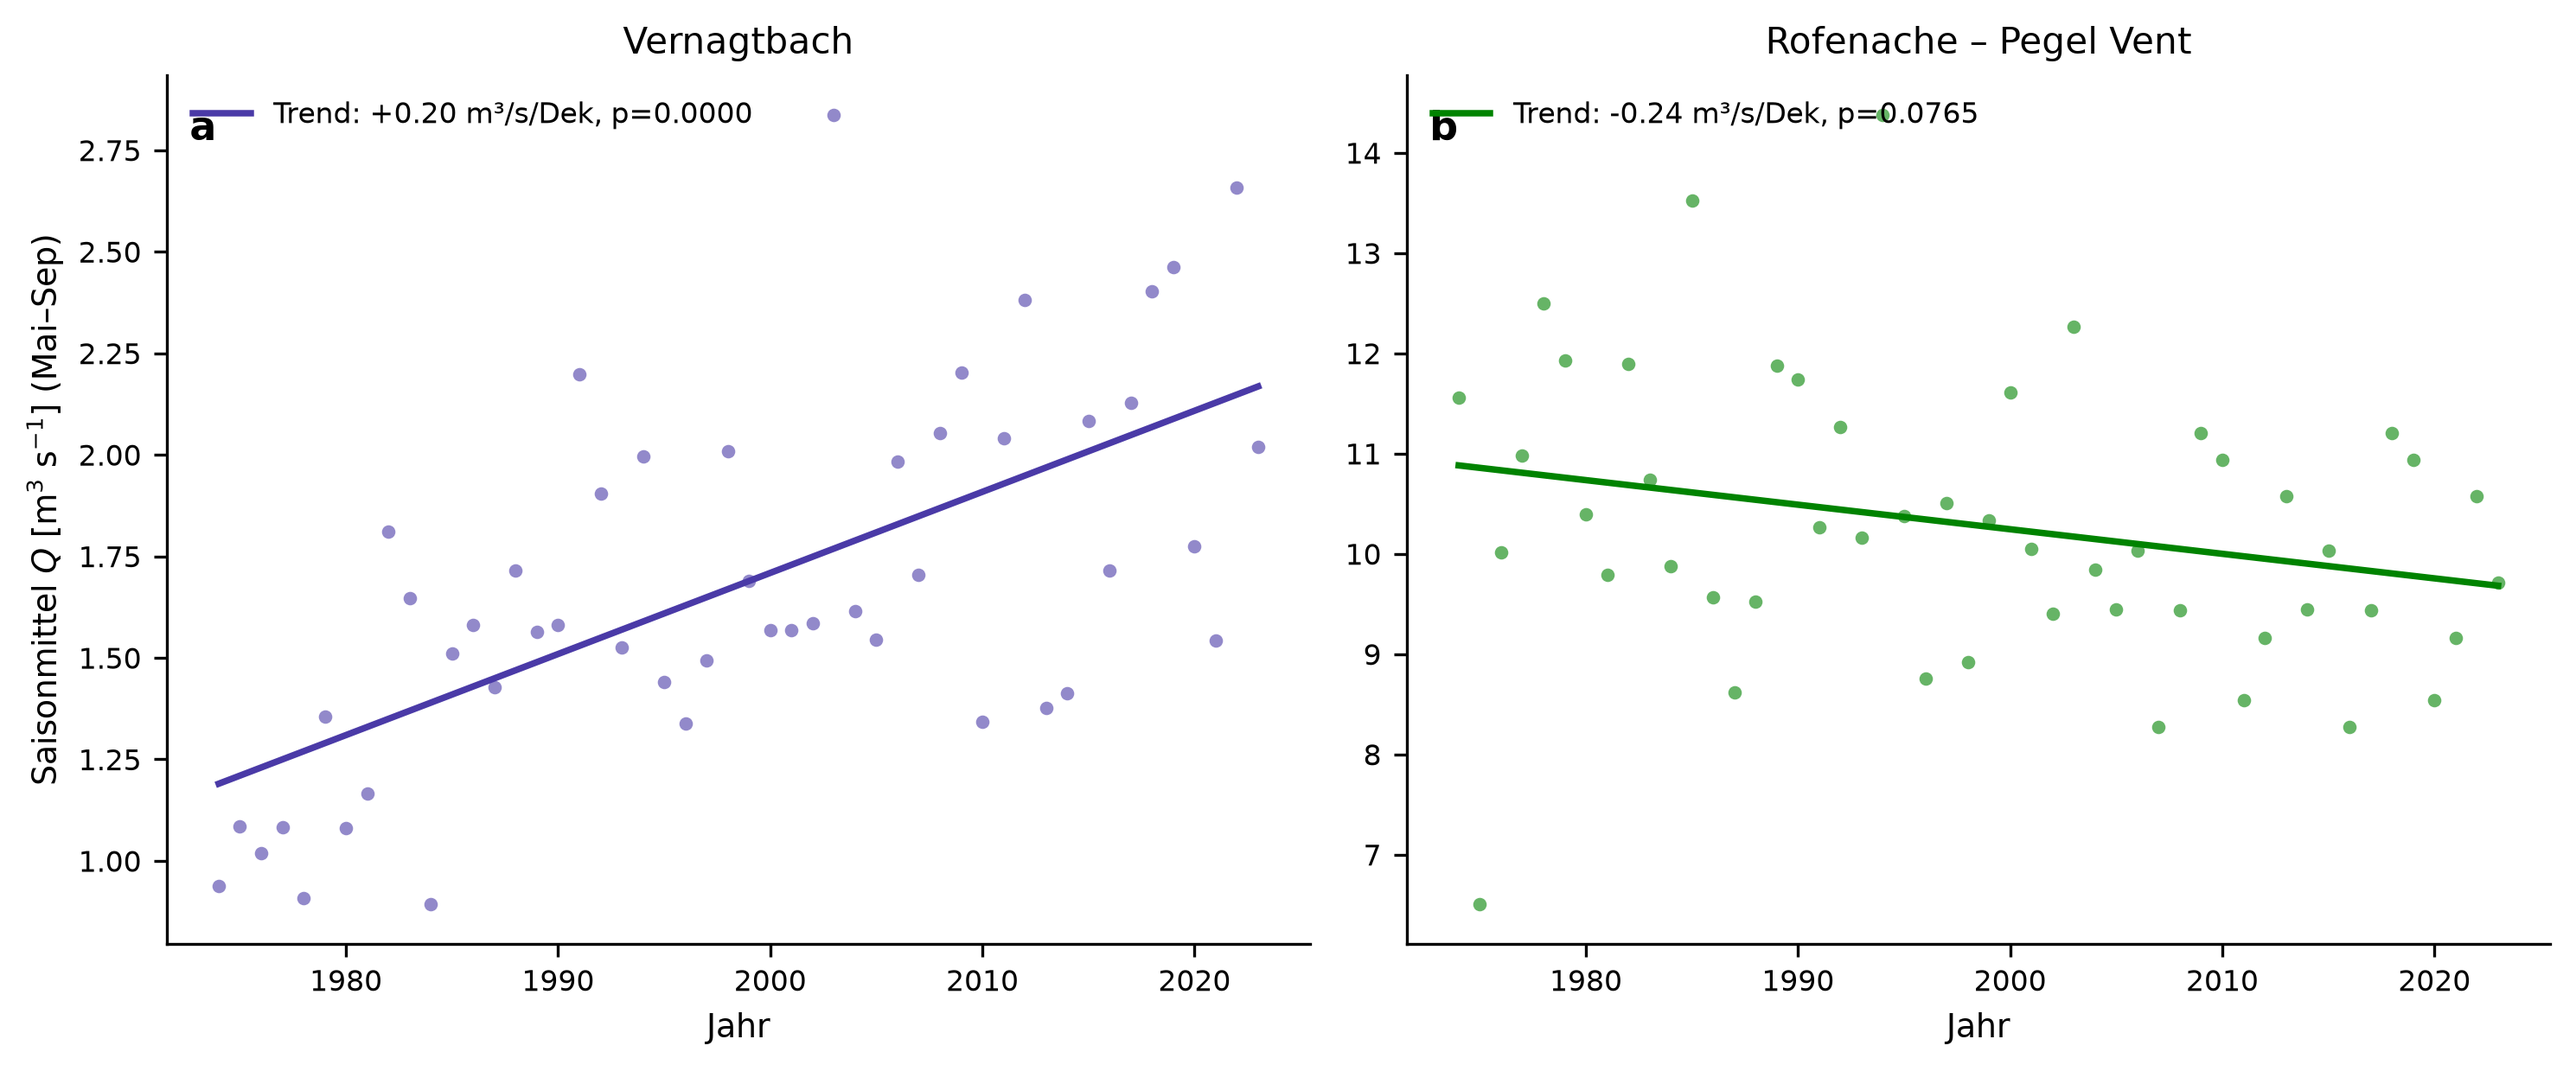
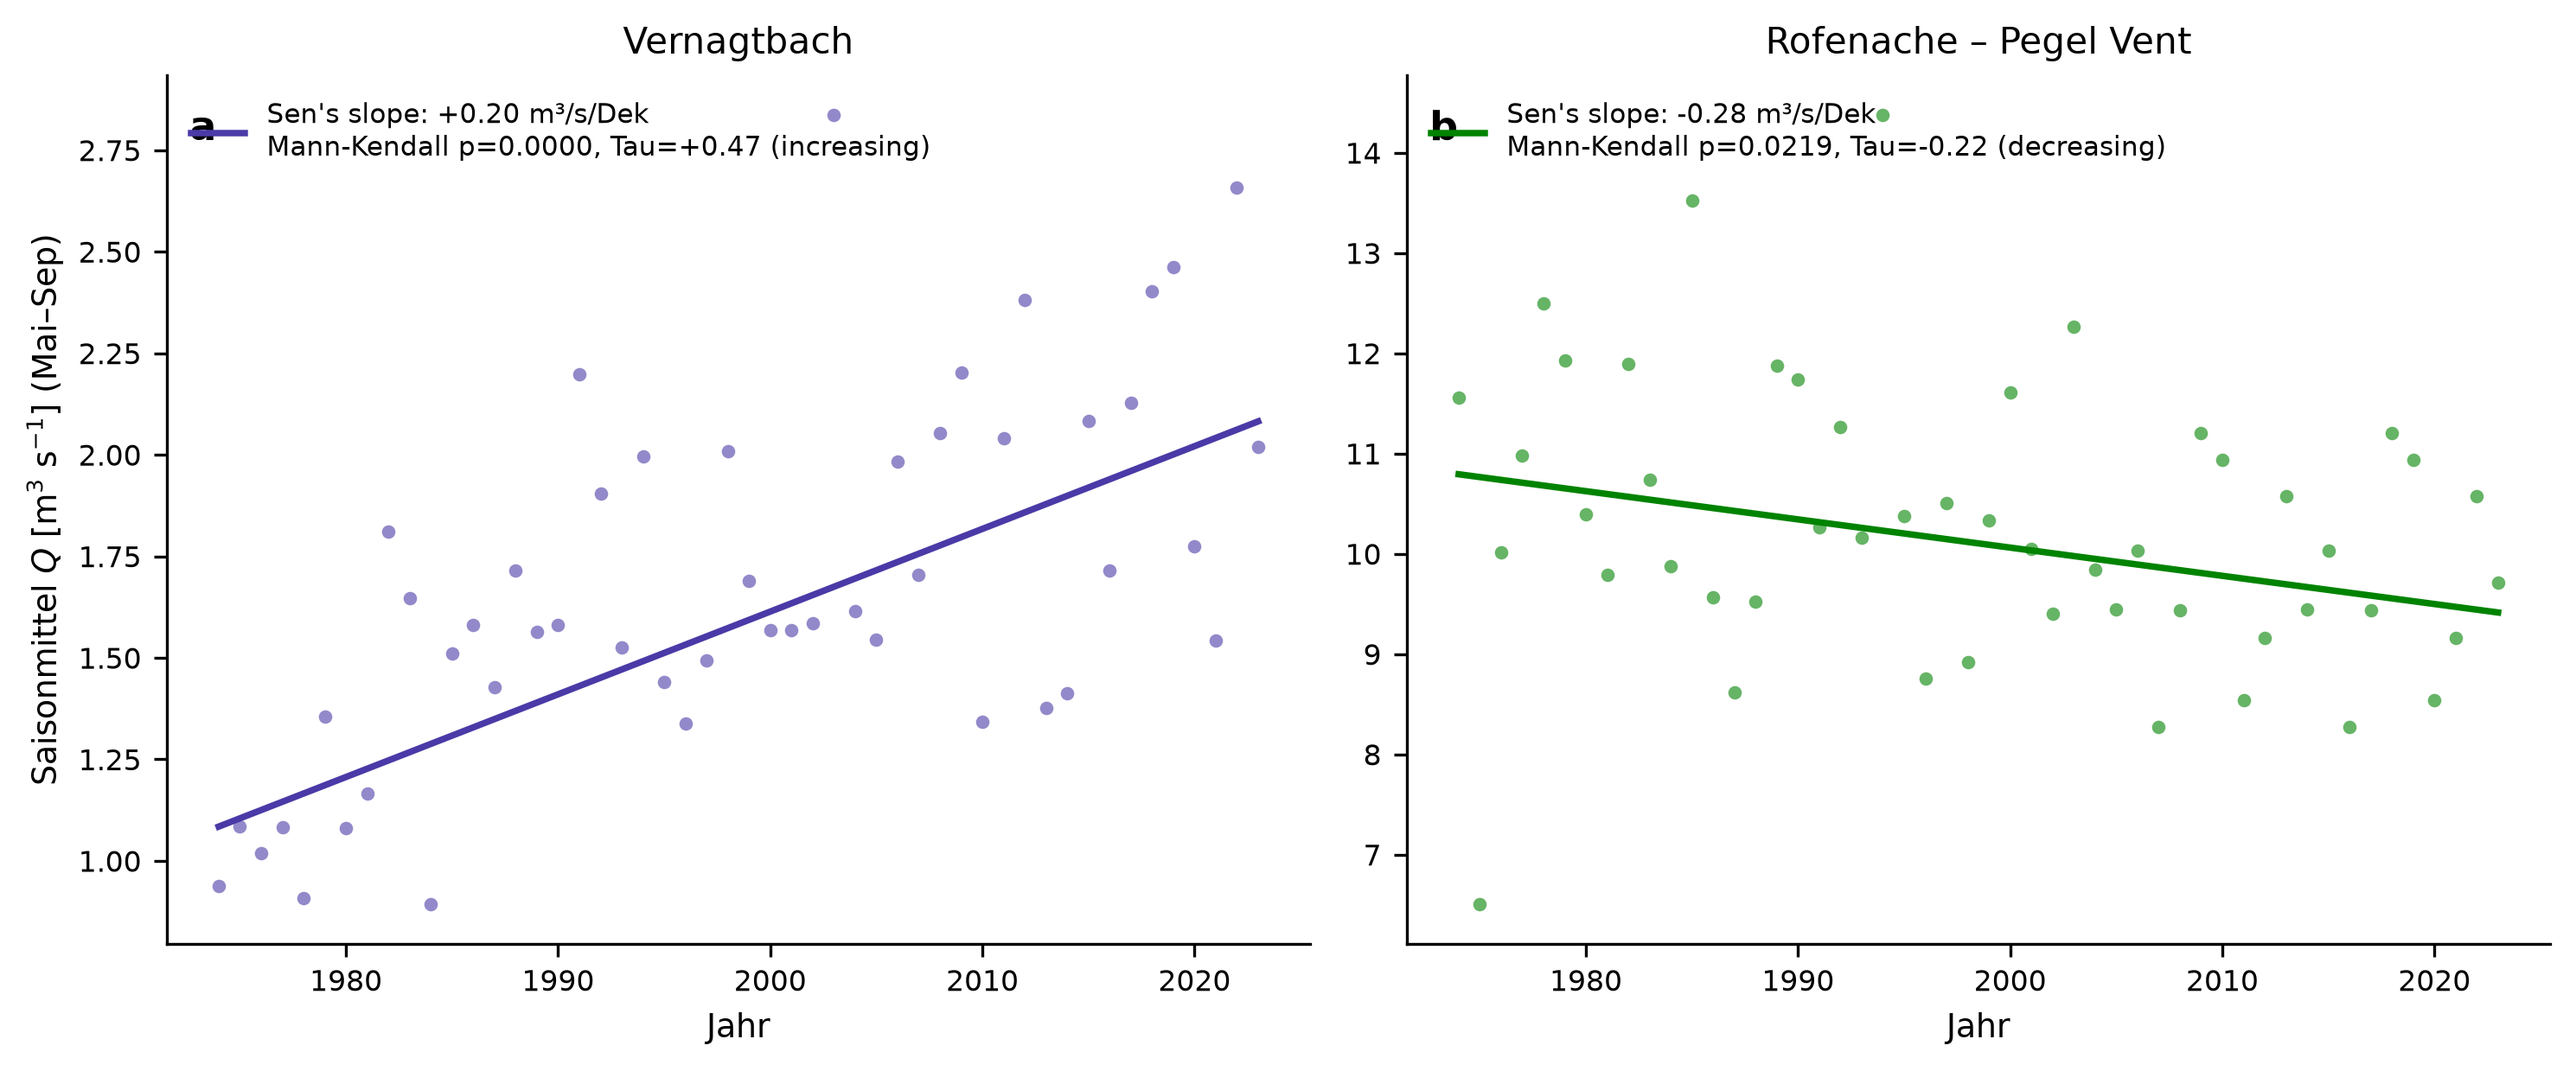
Switch fig14 to Mann-Kendall/Sen's slope (standard hydrological trend test)
OLS linear regression isn't the conventional choice for hydrological
trend detection - Mann-Kendall + Sen's slope is the WMO-recommended,
widely used standard (rank-based, robust to outliers and non-normal
residuals). With it, Rofenache's declining summer discharge comes out
clearly significant (p=0.0219) instead of the borderline p=0.077 OLS
gave - the outlier years (e.g. 1975, 1985) were pulling the OLS p-value
down. Vernagtbach's increase remains highly significant either way
(p<0.0001).

Adds pymannkendall to a new scripts/requirements.txt.

diff --git a/scripts/04_make_figures.py b/scripts/04_make_figures.py
@@ -10,6 +10,7 @@ import numpy as np
 import matplotlib.pyplot as plt
 import matplotlib.colors as mcolors
 from scipy import stats
+import pymannkendall as mk
 
 MASTER_XLSX = "./data/processed/ssim_q_weather_time_vs10.xlsx"  # <-- adjust
 MASTER_SHEET = "clean_complete_cases"
@@ -495,7 +496,14 @@ def fig_parde_coefficients(df):
 # --------------------------------------------------------------- Figure 14 --
 def fig_seasonal_magnitude_trend(df):
     """Has summer discharge magnitude (not just timing) changed? Seasonal
-    mean Q per year (May-Sep), scatter + linear trend, per catchment."""
+    mean Q per year (May-Sep), scatter + Mann-Kendall/Sen's-slope trend per
+    catchment. Mann-Kendall + Sen's slope (not OLS linear regression) is the
+    standard trend test in hydrology/climatology (WMO-recommended): a
+    rank-based, non-parametric test that doesn't assume normally distributed,
+    linear residuals and is far less sensitive to single outlier years than
+    OLS - the more defensible "is this monotonically increasing/decreasing"
+    statistic, the direct magnitude-trend analogue of the Pardé coefficient
+    used above for the seasonal-shape question."""
     d = df.copy()
     d["year"] = d["time"].dt.year
 
@@ -507,14 +515,15 @@ def fig_seasonal_magnitude_trend(df):
         seas = sub.groupby("year")[col].mean()
         seas = seas[counts >= 100]
         ax.scatter(seas.index, seas.values, s=14, alpha=0.6, color=c, linewidths=0)
-        slope, intercept, r, p, se = stats.linregress(seas.index, seas.values)
+        result = mk.original_test(seas.values)
         xs = np.array([seas.index.min(), seas.index.max()])
-        ax.plot(xs, slope * xs + intercept, color=c, linewidth=1.8,
-                label=f"Trend: {slope*10:+.2f} m³/s/Dek, p={p:.4f}")
+        ys = result.intercept + result.slope * (xs - seas.index.min())
+        ax.plot(xs, ys, color=c, linewidth=1.8,
+                label=f"Sen's slope: {result.slope*10:+.2f} m³/s/Dek\nMann-Kendall p={result.p:.4f}, Tau={result.Tau:+.2f} ({result.trend})")
         ax.set_title(title, fontsize=10)
         ax.set_xlabel("Jahr")
         ax.text(0.02, 0.96, lab, transform=ax.transAxes, fontsize=11, fontweight="bold", va="top")
-        ax.legend(loc="upper left", frameon=False, fontsize=8)
+        ax.legend(loc="upper left", frameon=False, fontsize=7.5)
     axes[0].set_ylabel(r"Saisonmittel $Q$ [m$^3$ s$^{-1}$] (Mai–Sep)")
     fig.tight_layout()
     fig.savefig(f"{OUT_DIR}/fig14_seasonal_magnitude_trend.png", dpi=300, bbox_inches="tight")
